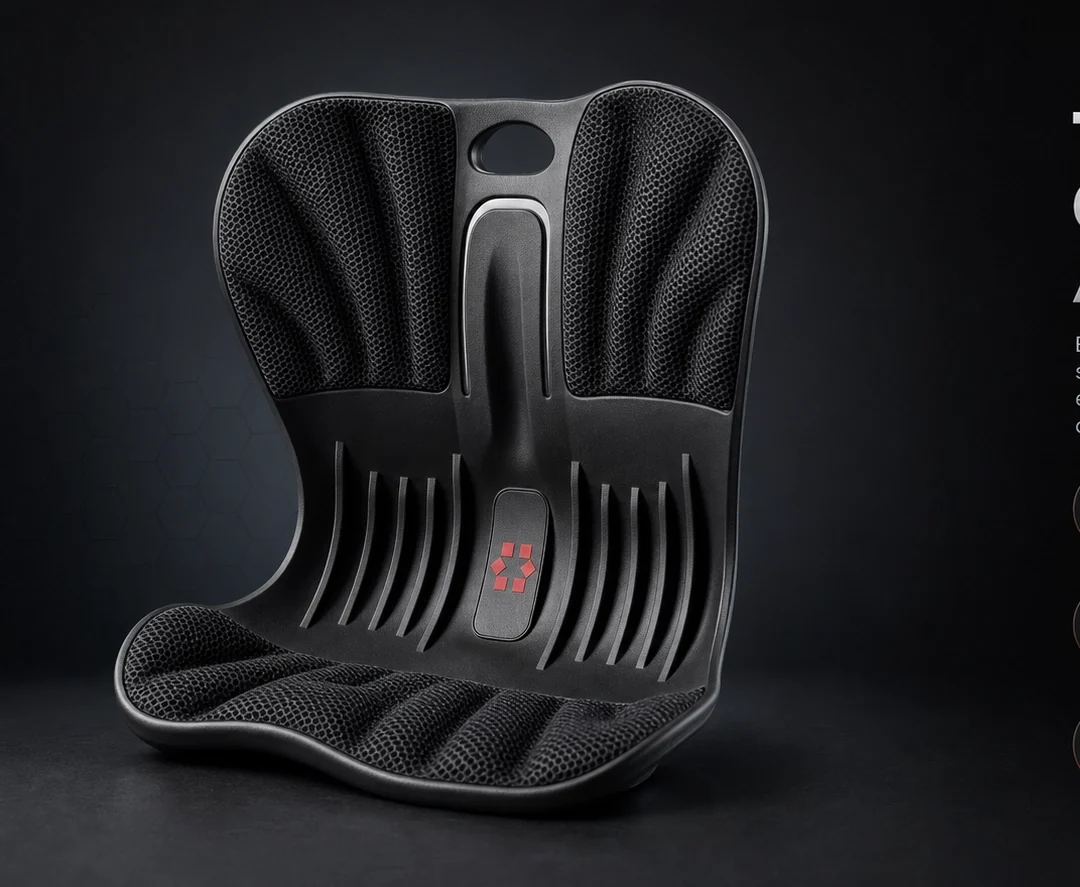
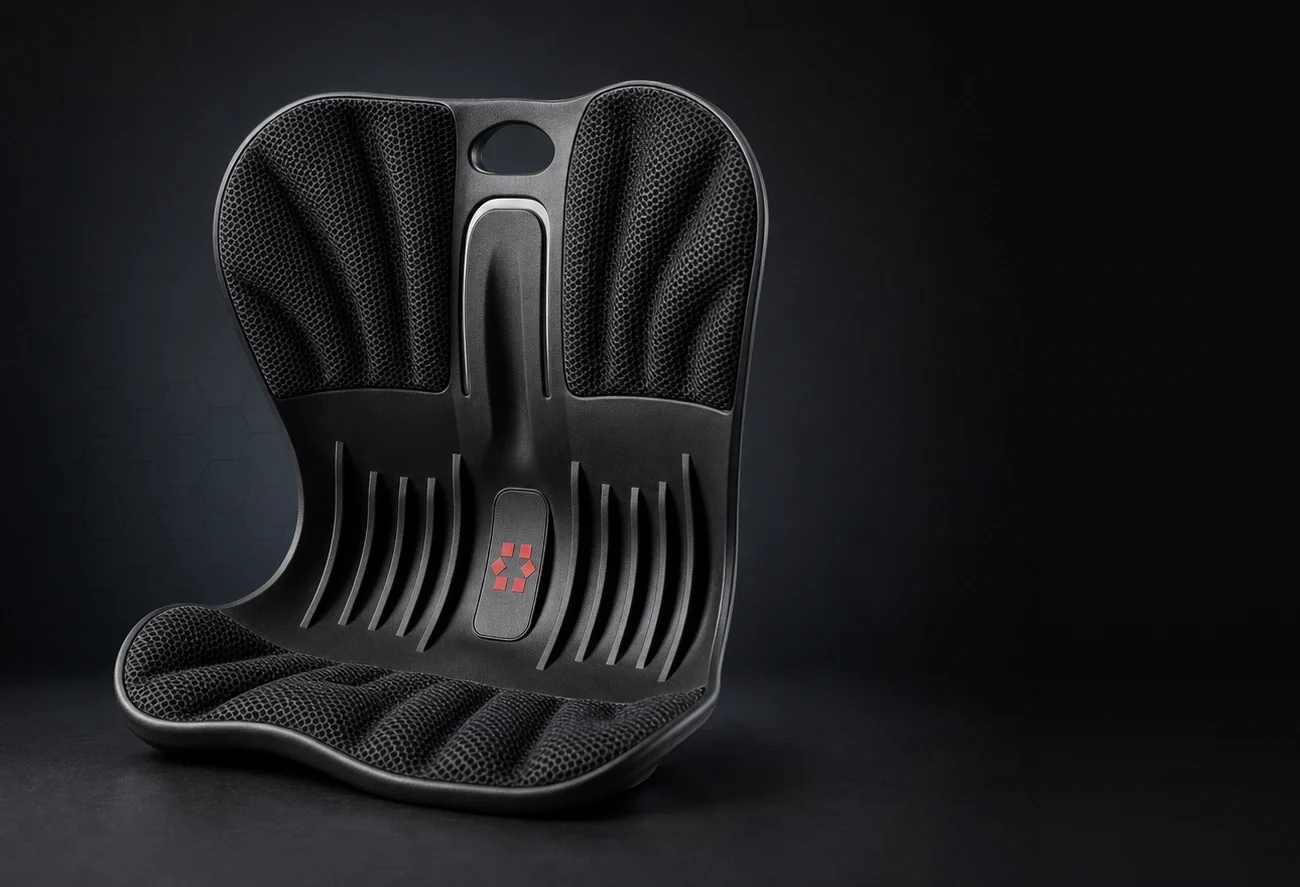
ErgoGraphene V4: clean hero image edge, natural product photos in benefits and try scene
Claude-Session: https://claude.ai/code/session_01RyrqFmg6fUxH3JnpBrSzpq

Changed region(s): [[0.0611, 0.0913, 0.7333, 0.9436], [0.9778, 0.2131, 1.0, 0.2435], [0.9778, 0.1218, 1.0, 0.1522]]

diff --git a/ergographene/v4/index.html b/ergographene/v4/index.html
@@ -44,7 +44,7 @@
 <!-- ============ 1. HERO ============ -->
 <section class="hero" data-note="1">
   <div class="hero__bg" aria-hidden="true"></div>
-  <div class="hero__photo"><img src="img/hero-product.webp" alt="ErgoGraphene Lumbar Support Seat Cushion with graphene inset and breathable tech-mesh" width="1080" height="887" fetchpriority="high"></div>
+  <div class="hero__photo"><img src="img/hero-product.webp" alt="ErgoGraphene Lumbar Support Seat Cushion with graphene inset and breathable tech-mesh" width="1300" height="887" fetchpriority="high"></div>
   <div class="hero__copy">
     <h1 class="hero__t"><span class="ln">Support your Back.</span><span class="ln"><em>Sit Naturally</em></span></h1>
     <p class="hero__p">Ordinary cushions only add padding. ErgoGraphene supports the natural curve of your lower back — and that changes everything. Better posture. Gentle graphene warmth. Less back pressure.</p>
@@ -73,46 +73,46 @@
     <div class="ben__panes">
       <div class="bp is-on">
         <div class="bp__grid">
-          <img class="g1" src="img/life-lounge.webp" alt="ErgoGraphene seat cushion on a lounge chair" loading="lazy">
-          <img class="g2" src="img/ribs.webp" alt="Close-up of the six reinforced lumbar ribs and graphene inset" loading="lazy">
-          <img class="g3" src="../v2/img/desk-women.webp" alt="Two women working at a desk" loading="lazy">
-          <img class="g4" src="img/life-lounge-tall.webp" alt="ErgoGraphene on a chair" loading="lazy">
+          <img class="g1" src="../images/about-hero.webp" alt="Woman working at her desk with ErgoGraphene on her chair" loading="lazy">
+          <img class="g2" src="img/ribs.webp" alt="Close-up of the six reinforced lumbar ribs" loading="lazy">
+          <img class="g3" src="../images/banner.webp" alt="ErgoGraphene on a white office chair" loading="lazy">
+          <img class="g4" src="../images/use-desk.webp" alt="Man working at his desk with ErgoGraphene" loading="lazy">
         </div>
         <div class="bp__foot"><div><p class="bp__txt">94% of customers felt instant relief from pressure and fatigue during long sitting hours.</p><p class="mono">Customer feedback · long sitting sessions</p></div><a class="arrowlink" href="#proof">See the numbers →</a></div>
       </div>
       <div class="bp">
         <div class="bp__grid">
-          <img class="g1" src="img/life-armchair.webp" alt="ErgoGraphene on a yellow armchair in a living room" loading="lazy">
-          <img class="g2" src="../v2/img/typing.webp" alt="Hands typing on a laptop" loading="lazy">
-          <img class="g3" src="img/ribs.webp" alt="Lumbar ribs close-up" loading="lazy">
-          <img class="g4" src="img/ledge.webp" alt="ErgoGraphene seat cushion at home" loading="lazy">
+          <img class="g1" src="../images/lifestyle.jpg" alt="Woman sitting upright at her desk with ErgoGraphene" loading="lazy">
+          <img class="g2" src="../images/science.webp" alt="ErgoGraphene on an office chair" loading="lazy">
+          <img class="g3" src="img/ledge.webp" alt="ErgoGraphene seat cushion at home" loading="lazy">
+          <img class="g4" src="../images/use-desk.webp" alt="Man sitting upright at his desk with ErgoGraphene" loading="lazy">
         </div>
         <div class="bp__foot"><div><p class="bp__txt">91% noticed more active posture and better lumbar alignment — the curve guides you upright without effort.</p><p class="mono">Customer feedback · posture &amp; alignment</p></div><a class="arrowlink" href="#how">How it works →</a></div>
       </div>
       <div class="bp">
         <div class="bp__grid">
-          <img class="g1" src="../v2/img/driving.webp" alt="Driving with hands on the wheel" loading="lazy">
-          <img class="g2" src="img/life-tansofa.webp" alt="ErgoGraphene on a leather sofa" loading="lazy">
+          <img class="g1" src="../images/use-drive.webp" alt="Woman driving with ErgoGraphene on her car seat" loading="lazy">
+          <img class="g2" src="../images/use-home.webp" alt="Man relaxing on the sofa with ErgoGraphene" loading="lazy">
           <img class="g3" src="img/mesh.webp" alt="Breathable tech-mesh close-up" loading="lazy">
-          <img class="g4" src="../v2/img/cafe-man.webp" alt="Man working on a laptop" loading="lazy">
+          <img class="g4" src="../images/lifestyle.jpg" alt="Woman working with ErgoGraphene" loading="lazy">
         </div>
         <div class="bp__foot"><div><p class="bp__txt">Multi-zone support spreads pressure across back, waist and hips, so long meetings and long drives feel less tiring.</p><p class="mono">Multi-zone structure · back, waist &amp; hips</p></div><a class="arrowlink" href="#how">How it works →</a></div>
       </div>
       <div class="bp">
         <div class="bp__grid">
-          <img class="g1" src="img/life-greensofa.webp" alt="ErgoGraphene on a green velvet sofa" loading="lazy">
-          <img class="g2" src="img/hero-product.webp" alt="ErgoGraphene with graphene warming inset" loading="lazy">
+          <img class="g1" src="../images/use-home.webp" alt="Man relaxing at home with ErgoGraphene" loading="lazy">
+          <img class="g2" src="img/hero-product.webp" alt="ErgoGraphene with the graphene inset" loading="lazy">
           <img class="g3" src="img/ribs.webp" alt="Graphene inset close-up" loading="lazy">
-          <img class="g4" src="../v2/img/sofa-laptop.webp" alt="Woman working from her sofa" loading="lazy">
+          <img class="g4" src="img/ledge.webp" alt="ErgoGraphene seat cushion on a blanket" loading="lazy">
         </div>
         <div class="bp__foot"><div><p class="bp__txt">A graphene-enhanced layer gives gentle, constant far-infrared warmth that helps tight lower-back muscles relax.</p><p class="mono">Graphene layer · far-infrared warmth</p></div><a class="arrowlink" href="#how">How it works →</a></div>
       </div>
       <div class="bp">
         <div class="bp__grid">
-          <img class="g1" src="../v2/img/desk-women.webp" alt="Working at a desk" loading="lazy">
-          <img class="g2" src="../v2/img/driving.webp" alt="Driving" loading="lazy">
-          <img class="g3" src="img/life-armchair.webp" alt="ErgoGraphene at home" loading="lazy">
-          <img class="g4" src="img/ledge.webp" alt="ErgoGraphene seat cushion" loading="lazy">
+          <img class="g1" src="../images/banner.webp" alt="ErgoGraphene on an office chair" loading="lazy">
+          <img class="g2" src="../images/use-drive.webp" alt="ErgoGraphene in the car" loading="lazy">
+          <img class="g3" src="../images/use-home.webp" alt="ErgoGraphene on the sofa" loading="lazy">
+          <img class="g4" src="../images/use-desk.webp" alt="ErgoGraphene at the desk" loading="lazy">
         </div>
         <div class="bp__foot"><div><p class="bp__txt">Office chairs, car seats, gaming chairs and sofas. Light enough to carry from your desk to your car.</p><p class="mono">Office · car · gaming · home</p></div><a class="arrowlink" href="#shop">Shop now →</a></div>
       </div>
@@ -272,7 +272,7 @@
 <!-- ============ 11. TRY IT ============ -->
 <section class="try" data-note="11">
   <div class="try__scene">
-    <img src="img/life-lounge.webp" alt="ErgoGraphene seat cushion on a lounge chair" loading="lazy">
+    <img src="../images/science.webp" alt="ErgoGraphene seat cushion on an office chair" loading="lazy">
     <div class="try__copy">
       <p class="eyebrow eyebrow--light">Try it</p>
       <h2 class="try__t">Try ErgoGraphene<br>in <em>your</em> chair.</h2>

diff --git a/ergographene/v4/style.css b/ergographene/v4/style.css
@@ -379,10 +379,10 @@ section { position: relative; }
 }
 @media (max-width: 760px) {
   .logo img { width: 140px; }
-  .hero { height: auto; min-height: calc(100svh - 64px); max-height: none; flex-direction: column; justify-content: flex-start; padding: 0 0 40px; }
-  .hero__photo { position: relative; width: 100%; height: 46svh; }
-  .hero__photo img { object-position: 45% 50%; }
-  .hero__photo::after { background: linear-gradient(0deg, #0b0c0e 0%, rgba(11, 12, 14, 0) 30%); }
+  .hero { height: auto; min-height: 0; max-height: none; flex-direction: column; justify-content: flex-start; padding: 0 0 56px; }
+  .hero__photo { position: relative; width: 100%; height: auto; }
+  .hero__photo img { height: auto; }
+  .hero__photo::after { background: linear-gradient(0deg, #0b0c0e 0%, rgba(11, 12, 14, 0) 26%), linear-gradient(180deg, #0b0c0e 0%, rgba(11, 12, 14, 0) 18%), linear-gradient(90deg, rgba(11, 12, 14, .5) 0%, rgba(11, 12, 14, 0) 12%, rgba(11, 12, 14, 0) 88%, rgba(11, 12, 14, .5) 100%); }
   .hero__t { font-size: clamp(44px, 12.5vw, 60px); }
   .hero__p { font-size: 16px; }
   .hero__cta { grid-template-columns: 1fr 1fr; justify-items: stretch; }
